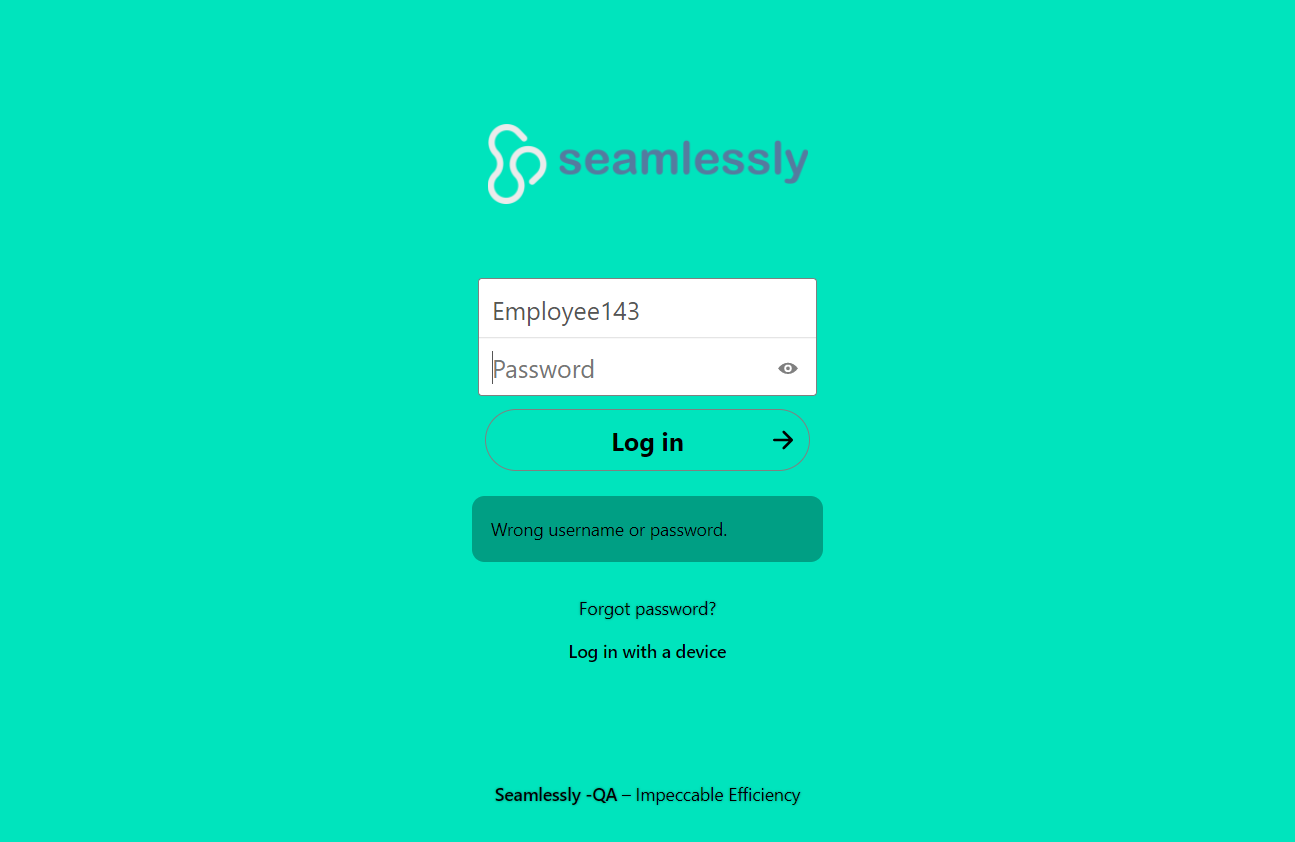
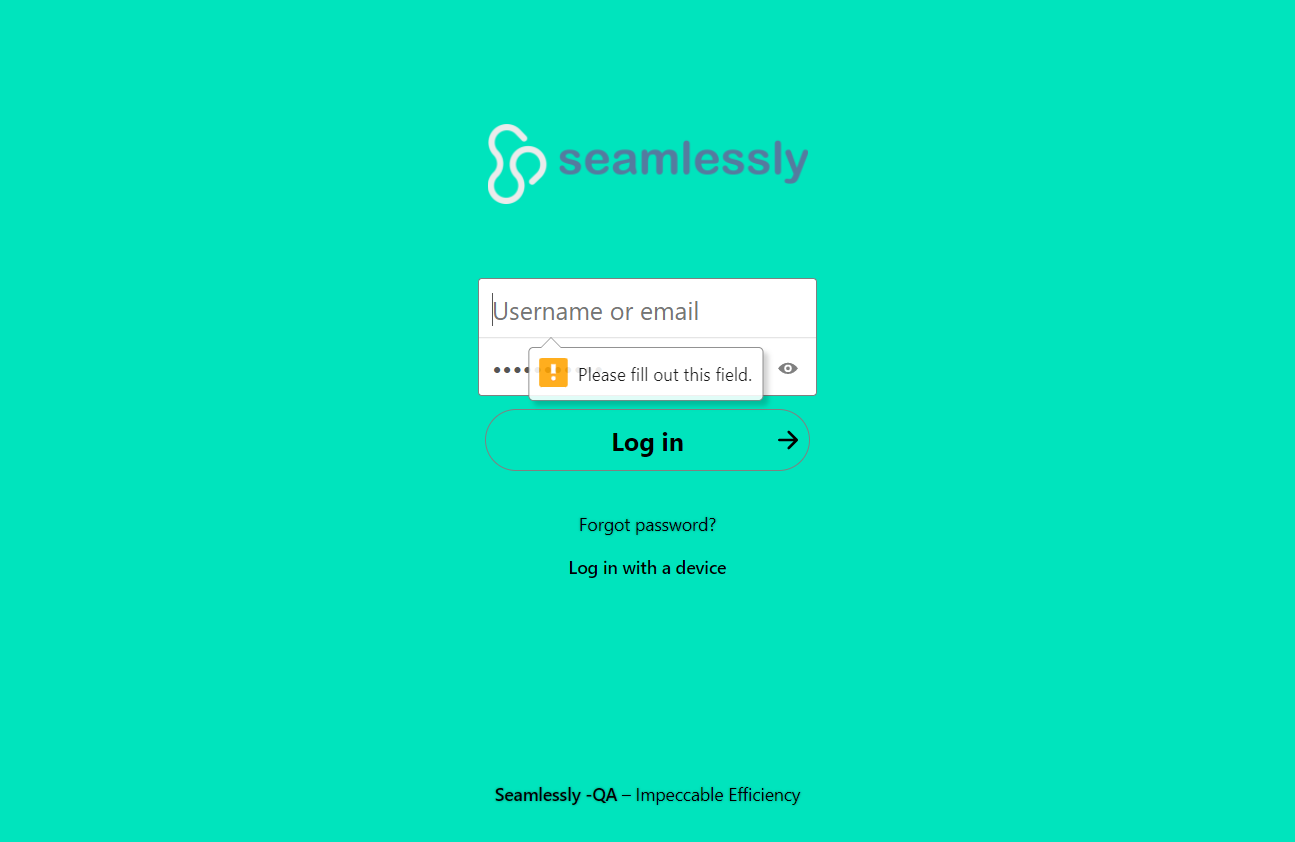
pages1

diff --git a/target/default-html-reports/report.js b/target/default-html-reports/report.js
@@ -5,7 +5,7 @@ formatter.feature({
   "keyword": "Feature"
 });
 formatter.scenarioOutline({
-  "name": "User can not login with \"Wrong username or password.\"",
+  "name": "User can not login with \u003cnames\u003e as empty",
   "description": "",
   "keyword": "Scenario Outline",
   "tags": [
@@ -27,7 +27,7 @@ formatter.step({
   "keyword": "And "
 });
 formatter.step({
-  "name": "Verify that wrong username or password warning should be displayed \"\u003cwrong\u003e\"",
+  "name": "Verify that empty username or password warning should be displayed \"Please fill out this field.\" \"\u003cusername\u003e\"\"\u003cpassword\u003e\"",
   "keyword": "Then "
 });
 formatter.examples({
@@ -39,20 +39,27 @@ formatter.examples({
       "cells": [
         "username",
         "password",
-        "wrong"
+        "names"
       ]
     },
     {
       "cells": [
-        "Employee143",
-        "Employee133",
-        "Wrong username or password."
+        "",
+        "Employee123",
+        "username"
+      ]
+    },
+    {
+      "cells": [
+        "Employee141",
+        "",
+        "password"
       ]
     }
   ]
 });
 formatter.scenario({
-  "name": "User can not login with \"Wrong username or password.\"",
+  "name": "User can not login with username as empty",
   "description": "",
   "keyword": "Scenario Outline",
   "tags": [
@@ -75,7 +82,7 @@ formatter.result({
   "status": "passed"
 });
 formatter.step({
-  "name": "the user enters the \"Employee143\" \"Employee133\"",
+  "name": "the user enters the \"\" \"Employee123\"",
   "keyword": "When "
 });
 formatter.match({
@@ -95,11 +102,67 @@ formatter.result({
   "status": "passed"
 });
 formatter.step({
-  "name": "Verify that wrong username or password warning should be displayed \"Wrong username or password.\"",
+  "name": "Verify that empty username or password warning should be displayed \"Please fill out this field.\" \"\"\"Employee123\"",
   "keyword": "Then "
 });
 formatter.match({
-  "location": "com.seamlessly.stepdefinitions.Loginpagedef.verify_that_wrong_username_or_password_warning_should_be_displayed(java.lang.String)"
+  "location": "com.seamlessly.stepdefinitions.Loginpagedef.verify_that_empty_username_or_password_warning_should_be_displayed(java.lang.String,java.lang.String,java.lang.String)"
+});
+formatter.result({
+  "status": "passed"
+});
+formatter.after({
+  "status": "passed"
+});
+formatter.scenario({
+  "name": "User can not login with password as empty",
+  "description": "",
+  "keyword": "Scenario Outline",
+  "tags": [
+    {
+      "name": "@190"
+    }
+  ]
+});
+formatter.before({
+  "status": "passed"
+});
+formatter.step({
+  "name": "the user is on the login page",
+  "keyword": "Given "
+});
+formatter.match({
+  "location": "com.seamlessly.stepdefinitions.Loginpagedef.the_user_is_on_the_login_page()"
+});
+formatter.result({
+  "status": "passed"
+});
+formatter.step({
+  "name": "the user enters the \"Employee141\" \"\"",
+  "keyword": "When "
+});
+formatter.match({
+  "location": "com.seamlessly.stepdefinitions.Loginpagedef.the_user_enters_the(java.lang.String,java.lang.String)"
+});
+formatter.result({
+  "status": "passed"
+});
+formatter.step({
+  "name": "Click the login button",
+  "keyword": "And "
+});
+formatter.match({
+  "location": "com.seamlessly.stepdefinitions.Loginpagedef.click_the_login_button()"
+});
+formatter.result({
+  "status": "passed"
+});
+formatter.step({
+  "name": "Verify that empty username or password warning should be displayed \"Please fill out this field.\" \"Employee141\"\"\"",
+  "keyword": "Then "
+});
+formatter.match({
+  "location": "com.seamlessly.stepdefinitions.Loginpagedef.verify_that_empty_username_or_password_warning_should_be_displayed(java.lang.String,java.lang.String,java.lang.String)"
 });
 formatter.result({
   "status": "passed"

diff --git a/src/test/java/com/seamlessly/pages/LoginPage.java b/src/test/java/com/seamlessly/pages/LoginPage.java
@@ -7,7 +7,7 @@ import org.openqa.selenium.WebElement;
 import org.openqa.selenium.support.FindBy;
 import org.openqa.selenium.support.PageFactory;
 
-public class LoginPage{
+public class LoginPage {
 
     @FindBy(id = "user")
     public WebElement usernameinput;
@@ -29,38 +29,61 @@ public class LoginPage{
         PageFactory.initElements(Driver.get(), this);
     }
 
-    public void Loginpage(){
+    public void Loginpage() {
         Driver.get().get(ConfigurationReader.get("url"));
 
 
-
     }
-    public void Enteridpassword(String username,String password){
+
+    public void Enteridpassword(String username, String password) {
         usernameinput.sendKeys(username);
         passwordinput.sendKeys(password);
 
     }
-    public void Loginbutton(){
+
+    public void Loginbutton() {
         loginbutton.click();
 
     }
-    public void clickprofilicon(){
+
+    public void clickprofilicon() {
         profilicon.click();
 
     }
-    public void profiliconname(String expected){
+
+    public void profiliconname(String expected) {
         String name = profiliconname.getAttribute("title");
 
-        Assert.assertTrue("Profil icon's actual and expected name aren't equals",expected.equals(name));
+        Assert.assertTrue("Profil icon's actual and expected name aren't equals", expected.equals(name));
 
 
     }
 
-    public void wronginputs(String expected){
+    public void wronginputs(String expected) {
 
         String innerHTML = awronginputs.getAttribute("innerHTML");
 
-        Assert.assertTrue("innerhtml and expected wrong username and password warnings are'nt equal ",innerHTML.contains(expected));
+        Assert.assertTrue("innerhtml and expected wrong username and password warnings are'nt equal ", innerHTML.contains(expected));
+
+    }
+
+    public void emptyinputs(String expected, String name, String password) {
+        if (name.isEmpty()) {
+
+            String actual = usernameinput.getAttribute("validationMessage");
+
+
+            Assert.assertTrue("empty name inputs message isn't as expected", actual.contains(expected));
+        } else if (password.isEmpty()) {
+
+            String actual = passwordinput.getAttribute("validationMessage");
+
+
+            Assert.assertTrue("empty password input message isn't as expected", actual.equals(expected));
+        } else {
+
+            Assert.assertTrue("input boxes aren't empty", false);
+        }
 
     }
 

diff --git a/src/test/java/com/seamlessly/stepdefinitions/Loginpagedef.java b/src/test/java/com/seamlessly/stepdefinitions/Loginpagedef.java
@@ -61,6 +61,12 @@ public class Loginpagedef {
         loginPage.wronginputs(string);
 
     }
+    @Then("Verify that empty username or password warning should be displayed {string} {string}{string}")
+    public void verify_that_empty_username_or_password_warning_should_be_displayed(String expected, String name, String password) {
+       LoginPage loginPage = new LoginPage();
+       loginPage.emptyinputs(expected, name, password);
+    }
+
 
 
 
